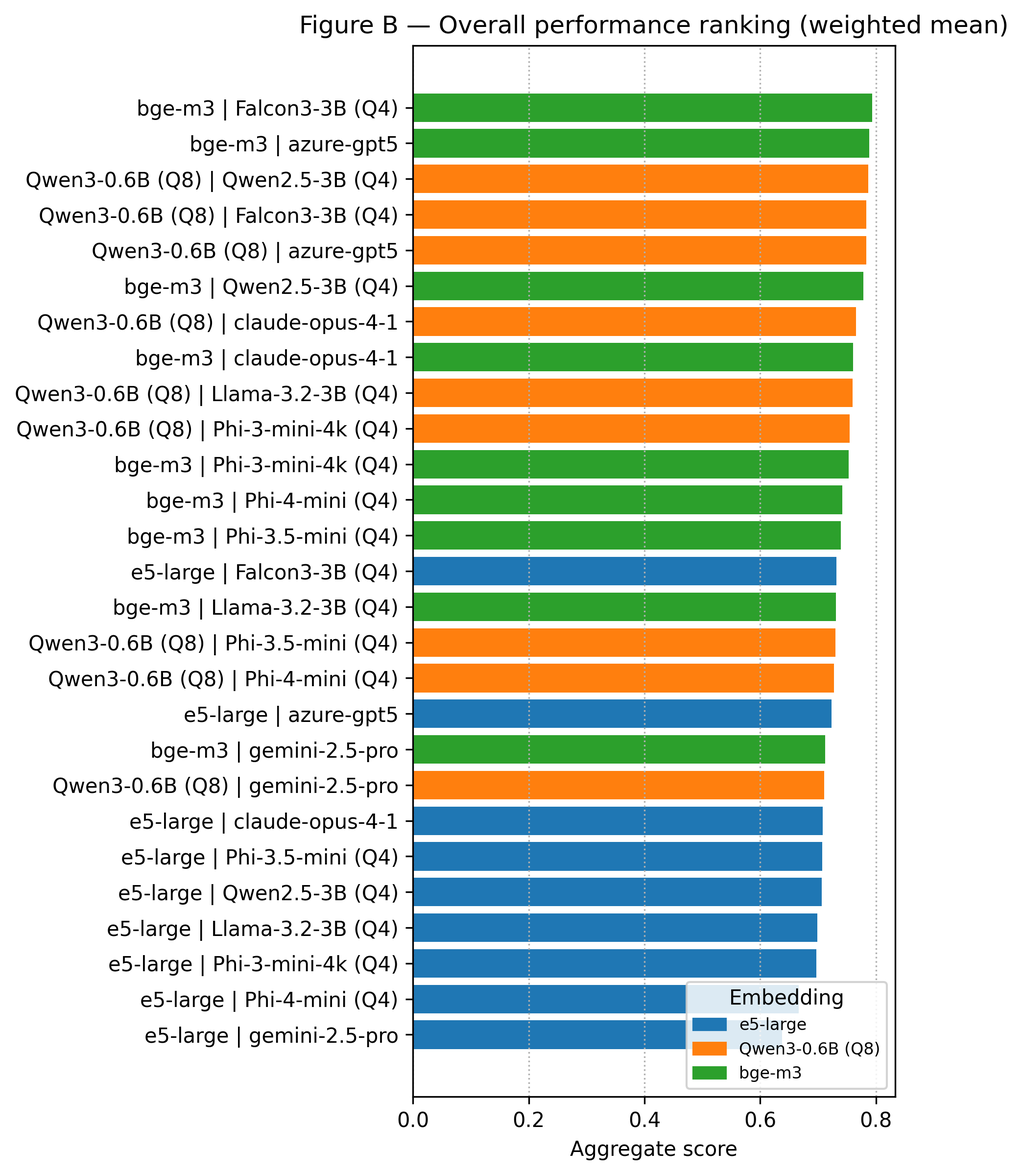
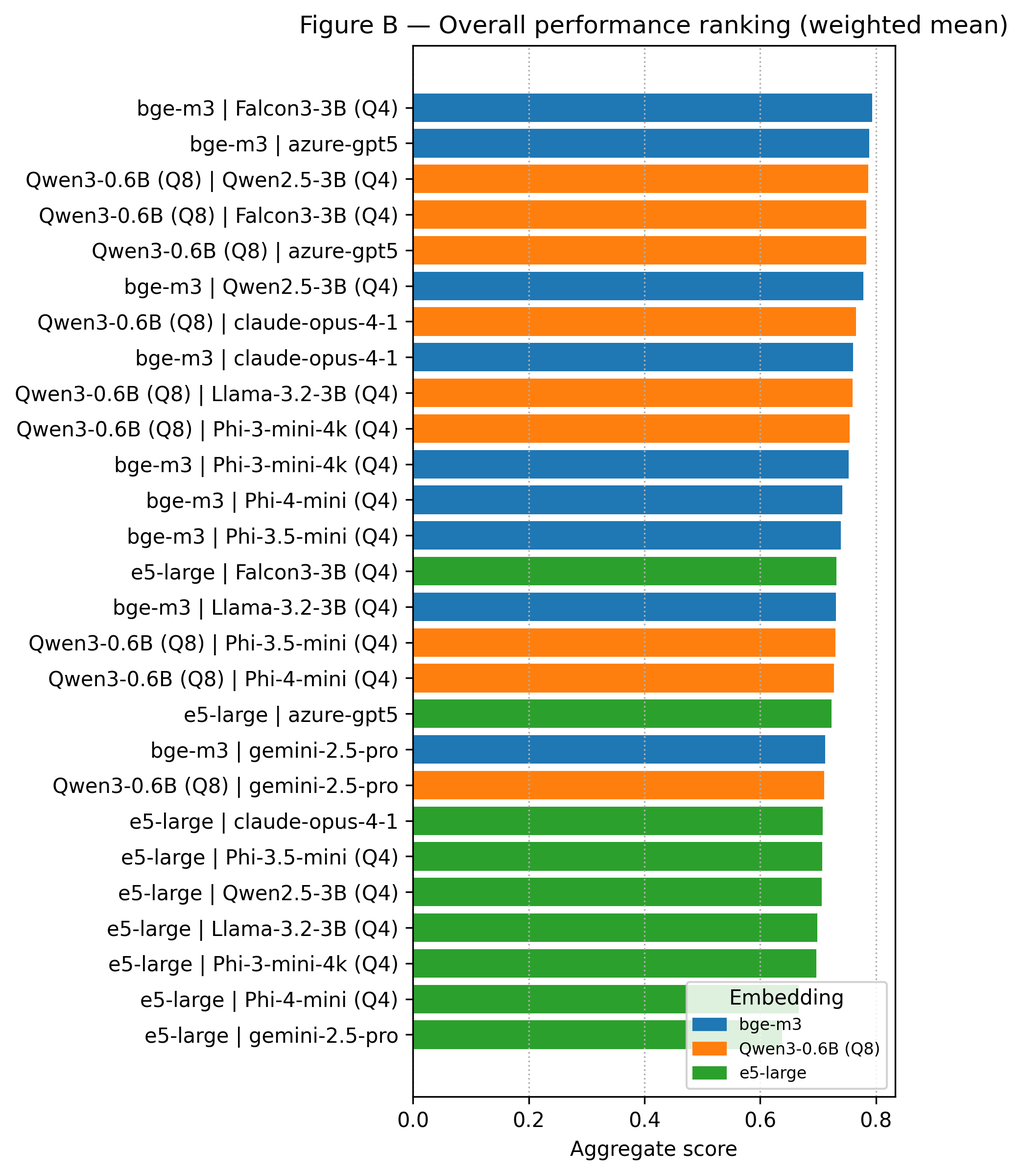
Removed unnecessary columns in figure e

diff --git a/results/benchmarking/20250913_170609/figures/rank_summary.html b/results/benchmarking/20250913_170609/figures/rank_summary.html
@@ -1,29 +1,29 @@
-<table><thead><tr><th style='text-align:right'>Rank</th><th>Pair</th><th style='text-align:right'>Faithfulness</th><th style='text-align:right'>Ans. Rel.</th><th style='text-align:right'>Ctx. Prec.</th><th style='text-align:right'>Ctx. Recall</th><th style='text-align:right'>Mean</th><th>F</th><th>AR</th><th>CP</th><th>CR</th></tr></thead><tbody>
-<tr><td style='text-align:right'>1</td><td>e5-large | gemini-2.5-pro</td><td style='text-align:right'>0.766</td><td style='text-align:right'>0.554</td><td style='text-align:right'>0.461</td><td style='text-align:right'>0.732</td><td style='text-align:right'>0.638</td><td></td><td></td><td></td><td></td></tr>
-<tr><td style='text-align:right'>2</td><td>e5-large | Phi-4-mini (Q4)</td><td style='text-align:right'>0.670</td><td style='text-align:right'>0.786</td><td style='text-align:right'>0.450</td><td style='text-align:right'>0.731</td><td style='text-align:right'>0.667</td><td></td><td></td><td></td><td></td></tr>
-<tr><td style='text-align:right'>3</td><td>e5-large | Phi-3-mini-4k (Q4)</td><td style='text-align:right'>0.754</td><td style='text-align:right'>0.768</td><td style='text-align:right'>0.455</td><td style='text-align:right'>0.736</td><td style='text-align:right'>0.697</td><td></td><td></td><td></td><td></td></tr>
-<tr><td style='text-align:right'>4</td><td>e5-large | Llama-3.2-3B (Q4)</td><td style='text-align:right'>0.678</td><td style='text-align:right'>0.879</td><td style='text-align:right'>0.457</td><td style='text-align:right'>0.724</td><td style='text-align:right'>0.699</td><td></td><td></td><td></td><td></td></tr>
-<tr><td style='text-align:right'>5</td><td>e5-large | Qwen2.5-3B (Q4)</td><td style='text-align:right'>0.731</td><td style='text-align:right'>0.832</td><td style='text-align:right'>0.455</td><td style='text-align:right'>0.730</td><td style='text-align:right'>0.706</td><td></td><td></td><td></td><td></td></tr>
-<tr><td style='text-align:right'>6</td><td>e5-large | Phi-3.5-mini (Q4)</td><td style='text-align:right'>0.733</td><td style='text-align:right'>0.833</td><td style='text-align:right'>0.451</td><td style='text-align:right'>0.736</td><td style='text-align:right'>0.707</td><td></td><td></td><td></td><td></td></tr>
-<tr><td style='text-align:right'>7</td><td>e5-large | claude-opus-4-1</td><td style='text-align:right'>0.911</td><td style='text-align:right'>0.594</td><td style='text-align:right'>0.462</td><td style='text-align:right'>0.733</td><td style='text-align:right'>0.708</td><td></td><td></td><td></td><td></td></tr>
-<tr><td style='text-align:right'>8</td><td>Qwen3-0.6B (Q8) | gemini-2.5-pro</td><td style='text-align:right'>0.821</td><td style='text-align:right'>0.631</td><td style='text-align:right'>0.561</td><td style='text-align:right'>0.810</td><td style='text-align:right'>0.711</td><td></td><td></td><td></td><td>🔺</td></tr>
-<tr><td style='text-align:right'>9</td><td>bge-m3 | gemini-2.5-pro</td><td style='text-align:right'>0.834</td><td style='text-align:right'>0.621</td><td style='text-align:right'>0.556</td><td style='text-align:right'>0.807</td><td style='text-align:right'>0.712</td><td></td><td></td><td></td><td>🔺</td></tr>
-<tr><td style='text-align:right'>10</td><td>e5-large | azure-gpt5</td><td style='text-align:right'>0.874</td><td style='text-align:right'>0.690</td><td style='text-align:right'>0.465</td><td style='text-align:right'>0.733</td><td style='text-align:right'>0.723</td><td></td><td></td><td></td><td></td></tr>
-<tr><td style='text-align:right'>11</td><td>Qwen3-0.6B (Q8) | Phi-4-mini (Q4)</td><td style='text-align:right'>0.711</td><td style='text-align:right'>0.841</td><td style='text-align:right'>0.550</td><td style='text-align:right'>0.807</td><td style='text-align:right'>0.727</td><td></td><td></td><td></td><td>🔺</td></tr>
-<tr><td style='text-align:right'>12</td><td>Qwen3-0.6B (Q8) | Phi-3.5-mini (Q4)</td><td style='text-align:right'>0.728</td><td style='text-align:right'>0.824</td><td style='text-align:right'>0.555</td><td style='text-align:right'>0.807</td><td style='text-align:right'>0.730</td><td></td><td></td><td></td><td>🔺</td></tr>
-<tr><td style='text-align:right'>13</td><td>bge-m3 | Llama-3.2-3B (Q4)</td><td style='text-align:right'>0.696</td><td style='text-align:right'>0.874</td><td style='text-align:right'>0.544</td><td style='text-align:right'>0.817</td><td style='text-align:right'>0.731</td><td></td><td></td><td></td><td>✅</td></tr>
-<tr><td style='text-align:right'>14</td><td>e5-large | Falcon3-3B (Q4)</td><td style='text-align:right'>0.755</td><td style='text-align:right'>0.901</td><td style='text-align:right'>0.432</td><td style='text-align:right'>0.735</td><td style='text-align:right'>0.732</td><td></td><td></td><td></td><td></td></tr>
-<tr><td style='text-align:right'>15</td><td>bge-m3 | Phi-3.5-mini (Q4)</td><td style='text-align:right'>0.726</td><td style='text-align:right'>0.833</td><td style='text-align:right'>0.593</td><td style='text-align:right'>0.799</td><td style='text-align:right'>0.739</td><td></td><td></td><td>✅</td><td></td></tr>
-<tr><td style='text-align:right'>16</td><td>bge-m3 | Phi-4-mini (Q4)</td><td style='text-align:right'>0.721</td><td style='text-align:right'>0.860</td><td style='text-align:right'>0.573</td><td style='text-align:right'>0.811</td><td style='text-align:right'>0.742</td><td></td><td></td><td></td><td>🔺</td></tr>
-<tr><td style='text-align:right'>17</td><td>bge-m3 | Phi-3-mini-4k (Q4)</td><td style='text-align:right'>0.765</td><td style='text-align:right'>0.861</td><td style='text-align:right'>0.542</td><td style='text-align:right'>0.804</td><td style='text-align:right'>0.753</td><td></td><td></td><td></td><td>🔺</td></tr>
-<tr><td style='text-align:right'>18</td><td>Qwen3-0.6B (Q8) | Phi-3-mini-4k (Q4)</td><td style='text-align:right'>0.780</td><td style='text-align:right'>0.851</td><td style='text-align:right'>0.531</td><td style='text-align:right'>0.806</td><td style='text-align:right'>0.754</td><td></td><td></td><td></td><td>🔺</td></tr>
-<tr><td style='text-align:right'>19</td><td>Qwen3-0.6B (Q8) | Llama-3.2-3B (Q4)</td><td style='text-align:right'>0.743</td><td style='text-align:right'>0.902</td><td style='text-align:right'>0.552</td><td style='text-align:right'>0.809</td><td style='text-align:right'>0.759</td><td></td><td></td><td></td><td>🔺</td></tr>
-<tr><td style='text-align:right'>20</td><td>bge-m3 | claude-opus-4-1</td><td style='text-align:right'>0.931</td><td style='text-align:right'>0.650</td><td style='text-align:right'>0.562</td><td style='text-align:right'>0.807</td><td style='text-align:right'>0.761</td><td>🔺</td><td></td><td></td><td>🔺</td></tr>
-<tr><td style='text-align:right'>21</td><td>Qwen3-0.6B (Q8) | claude-opus-4-1</td><td style='text-align:right'>0.934</td><td style='text-align:right'>0.667</td><td style='text-align:right'>0.559</td><td style='text-align:right'>0.799</td><td style='text-align:right'>0.765</td><td>✅</td><td></td><td></td><td></td></tr>
-<tr><td style='text-align:right'>22</td><td>bge-m3 | Qwen2.5-3B (Q4)</td><td style='text-align:right'>0.802</td><td style='text-align:right'>0.896</td><td style='text-align:right'>0.534</td><td style='text-align:right'>0.815</td><td style='text-align:right'>0.778</td><td></td><td></td><td></td><td>🔺</td></tr>
-<tr><td style='text-align:right'>23</td><td>Qwen3-0.6B (Q8) | azure-gpt5</td><td style='text-align:right'>0.922</td><td style='text-align:right'>0.738</td><td style='text-align:right'>0.562</td><td style='text-align:right'>0.806</td><td style='text-align:right'>0.783</td><td>🔺</td><td></td><td></td><td>🔺</td></tr>
-<tr><td style='text-align:right'>24</td><td>Qwen3-0.6B (Q8) | Falcon3-3B (Q4)</td><td style='text-align:right'>0.807</td><td style='text-align:right'>0.902</td><td style='text-align:right'>0.548</td><td style='text-align:right'>0.805</td><td style='text-align:right'>0.783</td><td></td><td></td><td></td><td>🔺</td></tr>
-<tr><td style='text-align:right'>25</td><td>Qwen3-0.6B (Q8) | Qwen2.5-3B (Q4)</td><td style='text-align:right'>0.787</td><td style='text-align:right'>0.913</td><td style='text-align:right'>0.580</td><td style='text-align:right'>0.817</td><td style='text-align:right'>0.786</td><td></td><td>🔺</td><td></td><td>🔺</td></tr>
-<tr><td style='text-align:right'>26</td><td>bge-m3 | azure-gpt5</td><td style='text-align:right'>0.904</td><td style='text-align:right'>0.789</td><td style='text-align:right'>0.540</td><td style='text-align:right'>0.817</td><td style='text-align:right'>0.788</td><td></td><td></td><td></td><td>🔺</td></tr>
-<tr><td style='text-align:right'>27</td><td>bge-m3 | Falcon3-3B (Q4)</td><td style='text-align:right'>0.800</td><td style='text-align:right'>0.923</td><td style='text-align:right'>0.574</td><td style='text-align:right'>0.813</td><td style='text-align:right'>0.793</td><td></td><td>✅</td><td></td><td>🔺</td></tr>
+<table><thead><tr><th style='text-align:right'>Rank</th><th>Pair</th><th style='text-align:right'>Faithfulness</th><th style='text-align:right'>Ans. Rel.</th><th style='text-align:right'>Ctx. Prec.</th><th style='text-align:right'>Ctx. Recall</th><th style='text-align:right'>Mean</th></tr></thead><tbody>
+<tr><td style='text-align:right'>1</td><td>bge-m3 | Falcon3-3B (Q4)</td><td style='text-align:right'>0.800</td><td style='text-align:right'>0.923</td><td style='text-align:right'>0.574</td><td style='text-align:right'>0.813</td><td style='text-align:right'>0.793</td></tr>
+<tr><td style='text-align:right'>2</td><td>bge-m3 | azure-gpt5</td><td style='text-align:right'>0.904</td><td style='text-align:right'>0.789</td><td style='text-align:right'>0.540</td><td style='text-align:right'>0.817</td><td style='text-align:right'>0.788</td></tr>
+<tr><td style='text-align:right'>3</td><td>Qwen3-0.6B (Q8) | Qwen2.5-3B (Q4)</td><td style='text-align:right'>0.787</td><td style='text-align:right'>0.913</td><td style='text-align:right'>0.580</td><td style='text-align:right'>0.817</td><td style='text-align:right'>0.786</td></tr>
+<tr><td style='text-align:right'>4</td><td>Qwen3-0.6B (Q8) | Falcon3-3B (Q4)</td><td style='text-align:right'>0.807</td><td style='text-align:right'>0.902</td><td style='text-align:right'>0.548</td><td style='text-align:right'>0.805</td><td style='text-align:right'>0.783</td></tr>
+<tr><td style='text-align:right'>5</td><td>Qwen3-0.6B (Q8) | azure-gpt5</td><td style='text-align:right'>0.922</td><td style='text-align:right'>0.738</td><td style='text-align:right'>0.562</td><td style='text-align:right'>0.806</td><td style='text-align:right'>0.783</td></tr>
+<tr><td style='text-align:right'>6</td><td>bge-m3 | Qwen2.5-3B (Q4)</td><td style='text-align:right'>0.802</td><td style='text-align:right'>0.896</td><td style='text-align:right'>0.534</td><td style='text-align:right'>0.815</td><td style='text-align:right'>0.778</td></tr>
+<tr><td style='text-align:right'>7</td><td>Qwen3-0.6B (Q8) | claude-opus-4-1</td><td style='text-align:right'>0.934</td><td style='text-align:right'>0.667</td><td style='text-align:right'>0.559</td><td style='text-align:right'>0.799</td><td style='text-align:right'>0.765</td></tr>
+<tr><td style='text-align:right'>8</td><td>bge-m3 | claude-opus-4-1</td><td style='text-align:right'>0.931</td><td style='text-align:right'>0.650</td><td style='text-align:right'>0.562</td><td style='text-align:right'>0.807</td><td style='text-align:right'>0.761</td></tr>
+<tr><td style='text-align:right'>9</td><td>Qwen3-0.6B (Q8) | Llama-3.2-3B (Q4)</td><td style='text-align:right'>0.743</td><td style='text-align:right'>0.902</td><td style='text-align:right'>0.552</td><td style='text-align:right'>0.809</td><td style='text-align:right'>0.759</td></tr>
+<tr><td style='text-align:right'>10</td><td>Qwen3-0.6B (Q8) | Phi-3-mini-4k (Q4)</td><td style='text-align:right'>0.780</td><td style='text-align:right'>0.851</td><td style='text-align:right'>0.531</td><td style='text-align:right'>0.806</td><td style='text-align:right'>0.754</td></tr>
+<tr><td style='text-align:right'>11</td><td>bge-m3 | Phi-3-mini-4k (Q4)</td><td style='text-align:right'>0.765</td><td style='text-align:right'>0.861</td><td style='text-align:right'>0.542</td><td style='text-align:right'>0.804</td><td style='text-align:right'>0.753</td></tr>
+<tr><td style='text-align:right'>12</td><td>bge-m3 | Phi-4-mini (Q4)</td><td style='text-align:right'>0.721</td><td style='text-align:right'>0.860</td><td style='text-align:right'>0.573</td><td style='text-align:right'>0.811</td><td style='text-align:right'>0.742</td></tr>
+<tr><td style='text-align:right'>13</td><td>bge-m3 | Phi-3.5-mini (Q4)</td><td style='text-align:right'>0.726</td><td style='text-align:right'>0.833</td><td style='text-align:right'>0.593</td><td style='text-align:right'>0.799</td><td style='text-align:right'>0.739</td></tr>
+<tr><td style='text-align:right'>14</td><td>e5-large | Falcon3-3B (Q4)</td><td style='text-align:right'>0.755</td><td style='text-align:right'>0.901</td><td style='text-align:right'>0.432</td><td style='text-align:right'>0.735</td><td style='text-align:right'>0.732</td></tr>
+<tr><td style='text-align:right'>15</td><td>bge-m3 | Llama-3.2-3B (Q4)</td><td style='text-align:right'>0.696</td><td style='text-align:right'>0.874</td><td style='text-align:right'>0.544</td><td style='text-align:right'>0.817</td><td style='text-align:right'>0.731</td></tr>
+<tr><td style='text-align:right'>16</td><td>Qwen3-0.6B (Q8) | Phi-3.5-mini (Q4)</td><td style='text-align:right'>0.728</td><td style='text-align:right'>0.824</td><td style='text-align:right'>0.555</td><td style='text-align:right'>0.807</td><td style='text-align:right'>0.730</td></tr>
+<tr><td style='text-align:right'>17</td><td>Qwen3-0.6B (Q8) | Phi-4-mini (Q4)</td><td style='text-align:right'>0.711</td><td style='text-align:right'>0.841</td><td style='text-align:right'>0.550</td><td style='text-align:right'>0.807</td><td style='text-align:right'>0.727</td></tr>
+<tr><td style='text-align:right'>18</td><td>e5-large | azure-gpt5</td><td style='text-align:right'>0.874</td><td style='text-align:right'>0.690</td><td style='text-align:right'>0.465</td><td style='text-align:right'>0.733</td><td style='text-align:right'>0.723</td></tr>
+<tr><td style='text-align:right'>19</td><td>bge-m3 | gemini-2.5-pro</td><td style='text-align:right'>0.834</td><td style='text-align:right'>0.621</td><td style='text-align:right'>0.556</td><td style='text-align:right'>0.807</td><td style='text-align:right'>0.712</td></tr>
+<tr><td style='text-align:right'>20</td><td>Qwen3-0.6B (Q8) | gemini-2.5-pro</td><td style='text-align:right'>0.821</td><td style='text-align:right'>0.631</td><td style='text-align:right'>0.561</td><td style='text-align:right'>0.810</td><td style='text-align:right'>0.711</td></tr>
+<tr><td style='text-align:right'>21</td><td>e5-large | claude-opus-4-1</td><td style='text-align:right'>0.911</td><td style='text-align:right'>0.594</td><td style='text-align:right'>0.462</td><td style='text-align:right'>0.733</td><td style='text-align:right'>0.708</td></tr>
+<tr><td style='text-align:right'>22</td><td>e5-large | Phi-3.5-mini (Q4)</td><td style='text-align:right'>0.733</td><td style='text-align:right'>0.833</td><td style='text-align:right'>0.451</td><td style='text-align:right'>0.736</td><td style='text-align:right'>0.707</td></tr>
+<tr><td style='text-align:right'>23</td><td>e5-large | Qwen2.5-3B (Q4)</td><td style='text-align:right'>0.731</td><td style='text-align:right'>0.832</td><td style='text-align:right'>0.455</td><td style='text-align:right'>0.730</td><td style='text-align:right'>0.706</td></tr>
+<tr><td style='text-align:right'>24</td><td>e5-large | Llama-3.2-3B (Q4)</td><td style='text-align:right'>0.678</td><td style='text-align:right'>0.879</td><td style='text-align:right'>0.457</td><td style='text-align:right'>0.724</td><td style='text-align:right'>0.699</td></tr>
+<tr><td style='text-align:right'>25</td><td>e5-large | Phi-3-mini-4k (Q4)</td><td style='text-align:right'>0.754</td><td style='text-align:right'>0.768</td><td style='text-align:right'>0.455</td><td style='text-align:right'>0.736</td><td style='text-align:right'>0.697</td></tr>
+<tr><td style='text-align:right'>26</td><td>e5-large | Phi-4-mini (Q4)</td><td style='text-align:right'>0.670</td><td style='text-align:right'>0.786</td><td style='text-align:right'>0.450</td><td style='text-align:right'>0.731</td><td style='text-align:right'>0.667</td></tr>
+<tr><td style='text-align:right'>27</td><td>e5-large | gemini-2.5-pro</td><td style='text-align:right'>0.766</td><td style='text-align:right'>0.554</td><td style='text-align:right'>0.461</td><td style='text-align:right'>0.732</td><td style='text-align:right'>0.638</td></tr>
 </tbody></table>

diff --git a/src/benchmarking/plot_rag_results.py b/src/benchmarking/plot_rag_results.py
@@ -314,7 +314,7 @@ def plot_ranking(
     ranked["llm"] = ranked["llm"].map(lambda s: llm_map.get(s, _shorten_llm_label(s)))
     ranked["embedding"] = ranked["embedding"].map(lambda s: emb_map.get(s, _shorten_embedding_label(s)))
     ranked["pair"] = ranked["embedding"] + " | " + ranked["llm"]
-    ranked = ranked.sort_values("aggregate", ascending=True)
+    ranked = ranked.sort_values("aggregate", ascending=False)
 
     # Calculate adaptive height based on number of pairs (similar to rank table)
     n_pairs = len(ranked)
@@ -322,12 +322,15 @@ def plot_ranking(
     fig_w_in = _mm_to_in(FIGSIZE_MM[0])  # Keep width consistent
 
     fig, ax = plt.subplots(figsize=(fig_w_in, fig_h_in))
+    # For the bar chart, use ascending order (lowest to highest) for better visual flow
+    ranked_for_chart = ranked.sort_values("aggregate", ascending=True)
+
     # Color-code bars by embedding and add legend
     unique_embs = list(dict.fromkeys(ranked["embedding"]))
     cmap = mpl.colormaps.get("tab10")
     emb_to_color = {emb: cmap(i % 10) for i, emb in enumerate(unique_embs)}
-    colors = [emb_to_color[e] for e in ranked["embedding"]]
-    ax.barh(ranked["pair"], ranked["aggregate"], color=colors)
+    colors = [emb_to_color[e] for e in ranked_for_chart["embedding"]]
+    ax.barh(ranked_for_chart["pair"], ranked_for_chart["aggregate"], color=colors)
     ax.set_xlabel("Aggregate score")
     ax.set_title("Figure B — Overall performance ranking (weighted mean)")
     ax.grid(True, which="both", ls=GRID_STYLE, axis="x")
@@ -363,46 +366,25 @@ def plot_ranking(
         table.to_csv(csv_path, index=False)
         print(f"✓ wrote {csv_path}")
 
-    # Additionally, write a Markdown summary with icons for metric winners
+    # Write simplified summary tables
     try:
-        winners = {}
-        for metric in METRICS:
-            idx = df[metric].idxmax()
-            if pd.notna(idx):
-                winners[metric] = (df.loc[idx, "embedding"], df.loc[idx, "llm"])  # raw
-
         ranked_md = ranked.copy()
-        # Icon columns for top performers per metric
-        for metric in METRICS:
-            emb_raw, llm_raw = winners.get(metric, (None, None))
-            if emb_raw is None:
-                ranked_md[f"top_{metric}"] = ""
-                continue
-            # Mark ✅ for the exact winning pair; 🔺 for those within 2% of the max
-            mmax = df[metric].max()
-            ranked_md[f"top_{metric}"] = ranked_md.apply(
-                lambda r: (
-                    "✅" if (r["embedding"] == emb_map.get(emb_raw, _shorten_embedding_label(emb_raw)) and r["llm"] == llm_map.get(llm_raw, _shorten_llm_label(llm_raw)))
-                    else ("🔺" if r[metric] >= 0.98 * mmax else "")
-                ),
-                axis=1,
-            )
 
         # Prepare Markdown table
         md_lines: List[str] = []
-        md_lines.append("| Rank | Pair | Faithfulness | Ans. Rel. | Ctx. Prec. | Ctx. Recall | Mean | F | AR | CP | CR |")
-        md_lines.append("|---:|:---|---:|---:|---:|---:|---:|:--:|:--:|:--:|:--:|")
+        md_lines.append("| Rank | Pair | Faithfulness | Ans. Rel. | Ctx. Prec. | Ctx. Recall | Mean |")
+        md_lines.append("|---:|:---|---:|---:|---:|---:|---:|")
         for i, r in enumerate(ranked_md.itertuples(index=False), start=1):
             pair = f"{r.embedding} | {r.llm}"
             md_lines.append(
-                f"| {i} | {pair} | {r.faithfulness:.3f} | {r.answer_relevancy:.3f} | {r.context_precision:.3f} | {r.context_recall:.3f} | {r.aggregate:.3f} | {getattr(r, 'top_faithfulness', '')} | {getattr(r, 'top_answer_relevancy', '')} | {getattr(r, 'top_context_precision', '')} | {getattr(r, 'top_context_recall', '')} |"
+                f"| {i} | {pair} | {r.faithfulness:.3f} | {r.answer_relevancy:.3f} | {r.context_precision:.3f} | {r.context_recall:.3f} | {r.aggregate:.3f} |"
             )
 
         md_path = outdir / "rank_summary.md"
         md_path.write_text("\n".join(md_lines), encoding="utf-8")
         print(f"✓ wrote {md_path}")
 
-        # Create an HTML table version with similar content and icons
+        # Create an HTML table version with simplified content
         html_rows: List[str] = []
         html_rows.append(
             "<table><thead><tr>"
@@ -413,7 +395,6 @@ def plot_ranking(
             "<th style='text-align:right'>Ctx. Prec.</th>"
             "<th style='text-align:right'>Ctx. Recall</th>"
             "<th style='text-align:right'>Mean</th>"
-            "<th>F</th><th>AR</th><th>CP</th><th>CR</th>"
             "</tr></thead><tbody>"
         )
         for i, r in enumerate(ranked_md.itertuples(index=False), start=1):
@@ -427,10 +408,6 @@ def plot_ranking(
                 f"<td style='text-align:right'>{r.context_precision:.3f}</td>"
                 f"<td style='text-align:right'>{r.context_recall:.3f}</td>"
                 f"<td style='text-align:right'>{r.aggregate:.3f}</td>"
-                f"<td>{getattr(r, 'top_faithfulness', '')}</td>"
-                f"<td>{getattr(r, 'top_answer_relevancy', '')}</td>"
-                f"<td>{getattr(r, 'top_context_precision', '')}</td>"
-                f"<td>{getattr(r, 'top_context_recall', '')}</td>"
                 "</tr>"
             )
         html_rows.append("</tbody></table>")
@@ -447,10 +424,6 @@ def plot_ranking(
             "Ctx. Prec.",
             "Ctx. Recall",
             "Mean",
-            "F",
-            "AR",
-            "CP",
-            "CR",
         ]
         cell_text: List[List[str]] = []
         for i, r in enumerate(ranked_md.itertuples(index=False), start=1):
@@ -462,10 +435,6 @@ def plot_ranking(
                 f"{r.context_precision:.3f}",
                 f"{r.context_recall:.3f}",
                 f"{r.aggregate:.3f}",
-                getattr(r, "top_faithfulness", ""),
-                getattr(r, "top_answer_relevancy", ""),
-                getattr(r, "top_context_precision", ""),
-                getattr(r, "top_context_recall", ""),
             ]
             cell_text.append(row)
 
@@ -484,7 +453,7 @@ def plot_ranking(
         tbl.auto_set_font_size(False)
         tbl.set_fontsize(8)
         tbl.scale(1.0, 1.3)
-        fig_tbl.suptitle("Figure E — Rank summary (best: ✅, within 2%: 🔺)", y=0.98)
+        fig_tbl.suptitle("Figure E — Rank summary (best to worst)", y=0.98)
         _save(fig_tbl, outdir / "figure_E_rank_summary", fmt)
     except Exception as e:
         print(f"⚠ Failed to write rank summary markdown: {e}")

diff --git a/results/benchmarking/20250913_170609/figures/rank_summary.md b/results/benchmarking/20250913_170609/figures/rank_summary.md
@@ -1,29 +1,29 @@
-| Rank | Pair | Faithfulness | Ans. Rel. | Ctx. Prec. | Ctx. Recall | Mean | F | AR | CP | CR |
-|---:|:---|---:|---:|---:|---:|---:|:--:|:--:|:--:|:--:|
-| 1 | e5-large | gemini-2.5-pro | 0.766 | 0.554 | 0.461 | 0.732 | 0.638 |  |  |  |  |
-| 2 | e5-large | Phi-4-mini (Q4) | 0.670 | 0.786 | 0.450 | 0.731 | 0.667 |  |  |  |  |
-| 3 | e5-large | Phi-3-mini-4k (Q4) | 0.754 | 0.768 | 0.455 | 0.736 | 0.697 |  |  |  |  |
-| 4 | e5-large | Llama-3.2-3B (Q4) | 0.678 | 0.879 | 0.457 | 0.724 | 0.699 |  |  |  |  |
-| 5 | e5-large | Qwen2.5-3B (Q4) | 0.731 | 0.832 | 0.455 | 0.730 | 0.706 |  |  |  |  |
-| 6 | e5-large | Phi-3.5-mini (Q4) | 0.733 | 0.833 | 0.451 | 0.736 | 0.707 |  |  |  |  |
-| 7 | e5-large | claude-opus-4-1 | 0.911 | 0.594 | 0.462 | 0.733 | 0.708 |  |  |  |  |
-| 8 | Qwen3-0.6B (Q8) | gemini-2.5-pro | 0.821 | 0.631 | 0.561 | 0.810 | 0.711 |  |  |  | 🔺 |
-| 9 | bge-m3 | gemini-2.5-pro | 0.834 | 0.621 | 0.556 | 0.807 | 0.712 |  |  |  | 🔺 |
-| 10 | e5-large | azure-gpt5 | 0.874 | 0.690 | 0.465 | 0.733 | 0.723 |  |  |  |  |
-| 11 | Qwen3-0.6B (Q8) | Phi-4-mini (Q4) | 0.711 | 0.841 | 0.550 | 0.807 | 0.727 |  |  |  | 🔺 |
-| 12 | Qwen3-0.6B (Q8) | Phi-3.5-mini (Q4) | 0.728 | 0.824 | 0.555 | 0.807 | 0.730 |  |  |  | 🔺 |
-| 13 | bge-m3 | Llama-3.2-3B (Q4) | 0.696 | 0.874 | 0.544 | 0.817 | 0.731 |  |  |  | ✅ |
-| 14 | e5-large | Falcon3-3B (Q4) | 0.755 | 0.901 | 0.432 | 0.735 | 0.732 |  |  |  |  |
-| 15 | bge-m3 | Phi-3.5-mini (Q4) | 0.726 | 0.833 | 0.593 | 0.799 | 0.739 |  |  | ✅ |  |
-| 16 | bge-m3 | Phi-4-mini (Q4) | 0.721 | 0.860 | 0.573 | 0.811 | 0.742 |  |  |  | 🔺 |
-| 17 | bge-m3 | Phi-3-mini-4k (Q4) | 0.765 | 0.861 | 0.542 | 0.804 | 0.753 |  |  |  | 🔺 |
-| 18 | Qwen3-0.6B (Q8) | Phi-3-mini-4k (Q4) | 0.780 | 0.851 | 0.531 | 0.806 | 0.754 |  |  |  | 🔺 |
-| 19 | Qwen3-0.6B (Q8) | Llama-3.2-3B (Q4) | 0.743 | 0.902 | 0.552 | 0.809 | 0.759 |  |  |  | 🔺 |
-| 20 | bge-m3 | claude-opus-4-1 | 0.931 | 0.650 | 0.562 | 0.807 | 0.761 | 🔺 |  |  | 🔺 |
-| 21 | Qwen3-0.6B (Q8) | claude-opus-4-1 | 0.934 | 0.667 | 0.559 | 0.799 | 0.765 | ✅ |  |  |  |
-| 22 | bge-m3 | Qwen2.5-3B (Q4) | 0.802 | 0.896 | 0.534 | 0.815 | 0.778 |  |  |  | 🔺 |
-| 23 | Qwen3-0.6B (Q8) | azure-gpt5 | 0.922 | 0.738 | 0.562 | 0.806 | 0.783 | 🔺 |  |  | 🔺 |
-| 24 | Qwen3-0.6B (Q8) | Falcon3-3B (Q4) | 0.807 | 0.902 | 0.548 | 0.805 | 0.783 |  |  |  | 🔺 |
-| 25 | Qwen3-0.6B (Q8) | Qwen2.5-3B (Q4) | 0.787 | 0.913 | 0.580 | 0.817 | 0.786 |  | 🔺 |  | 🔺 |
-| 26 | bge-m3 | azure-gpt5 | 0.904 | 0.789 | 0.540 | 0.817 | 0.788 |  |  |  | 🔺 |
-| 27 | bge-m3 | Falcon3-3B (Q4) | 0.800 | 0.923 | 0.574 | 0.813 | 0.793 |  | ✅ |  | 🔺 |
+| Rank | Pair | Faithfulness | Ans. Rel. | Ctx. Prec. | Ctx. Recall | Mean |
+|---:|:---|---:|---:|---:|---:|---:|
+| 1 | bge-m3 | Falcon3-3B (Q4) | 0.800 | 0.923 | 0.574 | 0.813 | 0.793 |
+| 2 | bge-m3 | azure-gpt5 | 0.904 | 0.789 | 0.540 | 0.817 | 0.788 |
+| 3 | Qwen3-0.6B (Q8) | Qwen2.5-3B (Q4) | 0.787 | 0.913 | 0.580 | 0.817 | 0.786 |
+| 4 | Qwen3-0.6B (Q8) | Falcon3-3B (Q4) | 0.807 | 0.902 | 0.548 | 0.805 | 0.783 |
+| 5 | Qwen3-0.6B (Q8) | azure-gpt5 | 0.922 | 0.738 | 0.562 | 0.806 | 0.783 |
+| 6 | bge-m3 | Qwen2.5-3B (Q4) | 0.802 | 0.896 | 0.534 | 0.815 | 0.778 |
+| 7 | Qwen3-0.6B (Q8) | claude-opus-4-1 | 0.934 | 0.667 | 0.559 | 0.799 | 0.765 |
+| 8 | bge-m3 | claude-opus-4-1 | 0.931 | 0.650 | 0.562 | 0.807 | 0.761 |
+| 9 | Qwen3-0.6B (Q8) | Llama-3.2-3B (Q4) | 0.743 | 0.902 | 0.552 | 0.809 | 0.759 |
+| 10 | Qwen3-0.6B (Q8) | Phi-3-mini-4k (Q4) | 0.780 | 0.851 | 0.531 | 0.806 | 0.754 |
+| 11 | bge-m3 | Phi-3-mini-4k (Q4) | 0.765 | 0.861 | 0.542 | 0.804 | 0.753 |
+| 12 | bge-m3 | Phi-4-mini (Q4) | 0.721 | 0.860 | 0.573 | 0.811 | 0.742 |
+| 13 | bge-m3 | Phi-3.5-mini (Q4) | 0.726 | 0.833 | 0.593 | 0.799 | 0.739 |
+| 14 | e5-large | Falcon3-3B (Q4) | 0.755 | 0.901 | 0.432 | 0.735 | 0.732 |
+| 15 | bge-m3 | Llama-3.2-3B (Q4) | 0.696 | 0.874 | 0.544 | 0.817 | 0.731 |
+| 16 | Qwen3-0.6B (Q8) | Phi-3.5-mini (Q4) | 0.728 | 0.824 | 0.555 | 0.807 | 0.730 |
+| 17 | Qwen3-0.6B (Q8) | Phi-4-mini (Q4) | 0.711 | 0.841 | 0.550 | 0.807 | 0.727 |
+| 18 | e5-large | azure-gpt5 | 0.874 | 0.690 | 0.465 | 0.733 | 0.723 |
+| 19 | bge-m3 | gemini-2.5-pro | 0.834 | 0.621 | 0.556 | 0.807 | 0.712 |
+| 20 | Qwen3-0.6B (Q8) | gemini-2.5-pro | 0.821 | 0.631 | 0.561 | 0.810 | 0.711 |
+| 21 | e5-large | claude-opus-4-1 | 0.911 | 0.594 | 0.462 | 0.733 | 0.708 |
+| 22 | e5-large | Phi-3.5-mini (Q4) | 0.733 | 0.833 | 0.451 | 0.736 | 0.707 |
+| 23 | e5-large | Qwen2.5-3B (Q4) | 0.731 | 0.832 | 0.455 | 0.730 | 0.706 |
+| 24 | e5-large | Llama-3.2-3B (Q4) | 0.678 | 0.879 | 0.457 | 0.724 | 0.699 |
+| 25 | e5-large | Phi-3-mini-4k (Q4) | 0.754 | 0.768 | 0.455 | 0.736 | 0.697 |
+| 26 | e5-large | Phi-4-mini (Q4) | 0.670 | 0.786 | 0.450 | 0.731 | 0.667 |
+| 27 | e5-large | gemini-2.5-pro | 0.766 | 0.554 | 0.461 | 0.732 | 0.638 |
